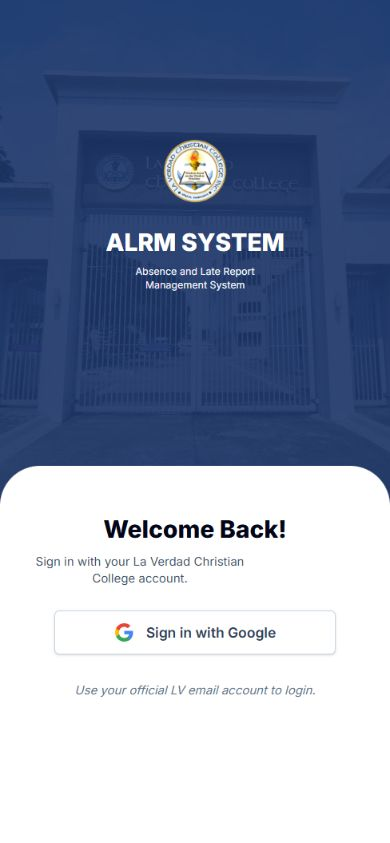
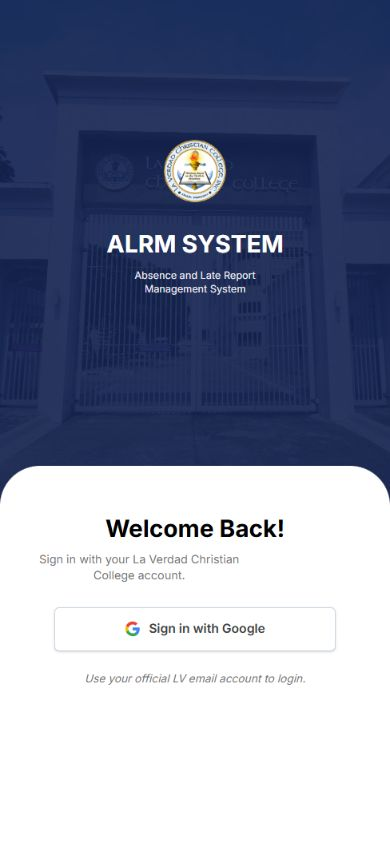
fix(auth): refine responsive login and signed-out layouts
Match the mobile blue overlay, text colors, and font weights to the reference.

Keep the desktop split-screen layout at 640px and wider, with the phone layout below 640px.

Scale typography, logos, buttons, and spacing fluidly while preserving centered alignment and accessible tap targets.

Update mobile and tablet preview screenshots.

diff --git a/frontend/src/pages/login.jsx b/frontend/src/pages/login.jsx
@@ -17,7 +17,7 @@ import lvPicture from "../assets/LV_Picture.jpg";
 
 function GoogleIcon() {
   return (
-    <svg className="size-5" viewBox="0 0 24 24" aria-hidden="true">
+    <svg className="size-[clamp(1rem,1.6vw,1.25rem)]" viewBox="0 0 24 24" aria-hidden="true">
       <path
         fill="#4285F4"
         d="M22.56 12.25c0-.78-.07-1.53-.2-2.25H12v4.26h5.92c-.26 1.37-1.04 2.53-2.21 3.31v2.77h3.57c2.08-1.92 3.28-4.74 3.28-8.09z"
@@ -43,7 +43,7 @@ function SchoolSeal() {
     <img
       src={lvLogo}
       alt="La Verdad Christian College logo"
-      className="size-36 object-contain drop-shadow-2xl"
+      className="size-[clamp(5rem,10vw,9rem)] object-contain drop-shadow-2xl"
     />
   );
 }
@@ -59,51 +59,51 @@ function Login() {
   }
 
   return (
-    <main className="flex min-h-svh flex-col bg-[#1c356a] text-slate-900 md:grid md:min-h-screen md:grid-cols-[48%_52%] md:bg-white">
+    <main className="flex min-h-svh flex-col bg-[#132351] text-slate-900 sm:grid sm:min-h-screen sm:grid-cols-[48%_52%] sm:bg-white">
       <MobileAuthBrand />
       <section
-        className="relative hidden min-h-screen place-items-center overflow-hidden bg-[#07152a] bg-cover bg-center px-10 text-white md:grid"
+        className="relative hidden min-h-screen place-items-center overflow-hidden bg-[#07152a] bg-cover bg-center px-6 text-white sm:grid lg:px-10"
         style={{
           backgroundImage: `linear-gradient(rgba(15, 23, 42, 0.86), rgba(15, 23, 42, 0.92)), url(${lvPicture})`,
         }}
       >
-        <div className="relative -mt-20 grid justify-items-center gap-8 text-center">
+        <div className="relative -mt-[clamp(2rem,6.25vw,5rem)] grid justify-items-center gap-[clamp(1rem,2.5vw,2rem)] text-center">
           <SchoolSeal />
 
-          <div className="space-y-4">
-            <h1 className="text-5xl font-black tracking-normal text-white">
+          <div className="space-y-[clamp(0.5rem,1.25vw,1rem)]">
+            <h1 className="text-[clamp(1.5rem,3.75vw,3rem)] font-black tracking-normal text-white">
               ALRM SYSTEM
             </h1>
-            <p className="mx-auto max-w-[260px] text-xl leading-snug text-slate-100">
+            <p className="mx-auto max-w-[260px] text-[clamp(0.75rem,1.5625vw,1.25rem)] leading-snug text-slate-100">
               Absence and Late Report Management System
             </p>
           </div>
         </div>
       </section>
 
-      <section className="relative -mt-10 flex min-h-[calc(40svh+2.5rem)] flex-1 flex-col items-center rounded-t-[40px] bg-white px-7 pb-10 pt-12 md:m-0 md:grid md:min-h-screen md:place-items-center md:rounded-none md:px-6 md:py-12">
-        <Card className="w-full max-w-[500px] gap-2 border-0 bg-transparent py-0 shadow-none ring-0 md:gap-4">
+      <section className="relative -mt-10 flex min-h-[calc(40svh+2.5rem)] flex-1 flex-col items-center rounded-t-[40px] bg-white px-[clamp(1.25rem,7vw,2rem)] pb-10 pt-[clamp(2rem,5.7svh,3rem)] sm:m-0 sm:grid sm:min-h-screen sm:place-items-center sm:rounded-none sm:px-[clamp(1rem,3vw,2rem)] sm:py-12">
+        <Card className="w-full max-w-[500px] gap-[clamp(0.5rem,1.25vw,1rem)] border-0 bg-transparent py-0 shadow-none ring-0">
           <CardHeader className="items-center gap-2 px-0 text-center">
-            <CardTitle className="text-2xl font-extrabold tracking-normal text-slate-950 md:text-[48px] md:font-black md:text-slate-800">
+            <CardTitle className="text-[clamp(1.375rem,calc(1rem+2vw),3rem)] font-bold leading-tight tracking-normal text-black sm:font-black sm:text-slate-800">
               Welcome Back!
             </CardTitle>
-            <CardDescription className="max-w-56 text-xs leading-snug text-slate-600 md:max-w-none md:text-[18px]">
+            <CardDescription className="max-w-56 text-[clamp(0.6875rem,calc(0.5rem+0.9vw),1.125rem)] font-normal leading-snug text-[#737373] sm:max-w-none sm:text-slate-600">
               Sign in with your La Verdad Christian College account.
             </CardDescription>
           </CardHeader>
 
-          <CardFooter className="flex-col gap-7 border-0 bg-transparent px-0 pt-4 md:gap-8 md:pt-10">
+          <CardFooter className="flex-col gap-[clamp(1.25rem,3vw,2rem)] border-0 bg-transparent px-0 pt-[clamp(1rem,3.2vw,2.5rem)]">
             <Button
               type="button"
               variant="outline"
               onClick={handleGoogleLogin}
-              className="h-11 w-full max-w-[282px] gap-3 rounded-[5px] border-slate-300 bg-white text-sm font-semibold text-slate-700 shadow-sm hover:bg-slate-50 md:text-base md:font-bold"
+              className="h-[clamp(2.75rem,calc(2.25rem+1.25vw),3.25rem)] w-[min(100%,clamp(13rem,72vw,22rem))] gap-[clamp(0.5rem,1vw,0.75rem)] rounded-[5px] border-slate-300 bg-white text-[clamp(0.75rem,calc(0.65rem+0.55vw),1rem)] font-semibold text-[#404040] shadow-sm hover:bg-slate-50 sm:text-slate-700 sm:font-bold"
             >
               <GoogleIcon />
               Sign in with Google
             </Button>
 
-            <p className="text-center text-xs italic text-slate-500 md:font-semibold">
+            <p className="text-center text-[clamp(0.6875rem,calc(0.6rem+0.3vw),0.8125rem)] font-normal italic text-[#737373] sm:font-semibold sm:text-slate-500">
               Use your official LV email account to login.
             </p>
           </CardFooter>

diff --git a/frontend/src/pages/auth/SignedOut/SignedOutMessage.jsx b/frontend/src/pages/auth/SignedOut/SignedOutMessage.jsx
@@ -3,17 +3,17 @@ import { Link } from "react-router-dom";
 import { googleLoginUrl } from "@/api/client";
 
 export default function SignedOutMessage() {
-  return <section className="relative -mt-10 flex min-h-[calc(40svh+2.5rem)] flex-1 flex-col items-center rounded-t-[40px] bg-white px-7 pb-10 pt-12 md:m-0 md:grid md:min-h-screen md:place-items-center md:rounded-none md:px-6 md:py-12">
+  return <section className="relative -mt-10 flex min-h-[calc(40svh+2.5rem)] flex-1 flex-col items-center rounded-t-[40px] bg-white px-[clamp(1.25rem,7vw,2rem)] pb-10 pt-[clamp(2rem,5.7svh,3rem)] sm:m-0 sm:grid sm:min-h-screen sm:place-items-center sm:rounded-none sm:px-[clamp(1rem,3vw,2rem)] sm:py-12">
     <div className="grid w-full max-w-[420px] justify-items-center text-center">
-      <h1 className="text-2xl font-extrabold leading-tight text-[#253044] sm:text-3xl">You've been signed out</h1>
-      <p className="mt-2 text-xs text-slate-600 md:text-sm">Thanks for using the system</p>
-      <button type="button" onClick={() => { window.location.href = googleLoginUrl(); }} className="mt-8 inline-flex h-11 w-full max-w-[280px] items-center justify-center gap-3 rounded-[5px] bg-[#203b82] px-5 text-sm font-semibold text-white transition-colors hover:bg-[#182e67] focus-visible:outline-2 focus-visible:outline-offset-2 focus-visible:outline-[#203b82] md:hidden">
-        <ArrowRight aria-hidden="true" className="size-4" />Sign in with Google
+      <h1 className="text-[clamp(1.25rem,calc(1rem+1.4vw),2rem)] font-bold leading-tight text-black sm:font-extrabold sm:text-[#253044]">You've been signed out</h1>
+      <p className="mt-2 text-[clamp(0.6875rem,calc(0.5rem+0.9vw),1.125rem)] font-normal text-[#737373] sm:text-slate-600">Thanks for using the system</p>
+      <button type="button" onClick={() => { window.location.href = googleLoginUrl(); }} className="mt-[clamp(1.25rem,2.5vw,2rem)] inline-flex h-[clamp(2.75rem,calc(2.25rem+1.25vw),3.25rem)] w-[min(100%,clamp(13rem,72vw,22rem))] items-center justify-center gap-[clamp(0.5rem,1vw,0.75rem)] rounded-[5px] bg-[#172f6b] px-5 text-[clamp(0.75rem,calc(0.65rem+0.55vw),1rem)] font-semibold text-white transition-colors hover:bg-[#132859] focus-visible:outline-2 focus-visible:outline-offset-2 focus-visible:outline-[#172f6b] sm:hidden">
+        <ArrowRight aria-hidden="true" className="size-[clamp(1rem,1.6vw,1.25rem)]" />Sign in with Google
       </button>
-      <Link to="/login" replace className="mt-7 hidden h-11 w-full max-w-[280px] items-center justify-center gap-3 rounded-[5px] bg-[#203b82] px-5 text-sm font-semibold text-white transition-colors hover:bg-[#182e67] focus-visible:outline-2 focus-visible:outline-offset-2 focus-visible:outline-[#203b82] md:inline-flex">
-        <ArrowRight aria-hidden="true" className="size-4" />Sign in again
+      <Link to="/login" replace className="mt-[clamp(1.25rem,2.5vw,2rem)] hidden h-[clamp(2.75rem,calc(2.25rem+1.25vw),3.25rem)] w-[min(100%,clamp(13rem,72vw,22rem))] items-center justify-center gap-[clamp(0.5rem,1vw,0.75rem)] rounded-[5px] bg-[#203b82] px-5 text-[clamp(0.75rem,calc(0.65rem+0.55vw),1rem)] font-semibold text-white transition-colors hover:bg-[#182e67] focus-visible:outline-2 focus-visible:outline-offset-2 focus-visible:outline-[#203b82] sm:inline-flex">
+        <ArrowRight aria-hidden="true" className="size-[clamp(1rem,1.6vw,1.25rem)]" />Sign in again
       </Link>
-      <p className="mt-7 text-xs italic text-slate-500 md:mt-5 md:not-italic">Use your official LV email account to login.</p>
+      <p className="mt-[clamp(1.25rem,2.5vw,2rem)] text-[clamp(0.6875rem,calc(0.6rem+0.3vw),0.8125rem)] font-normal italic text-[#737373] sm:not-italic sm:text-slate-500">Use your official LV email account to login.</p>
     </div>
   </section>;
 }

diff --git a/frontend/src/pages/auth/SignedOut/SchoolIdentityPanel.jsx b/frontend/src/pages/auth/SignedOut/SchoolIdentityPanel.jsx
@@ -2,14 +2,14 @@ import schoolLogo from "@/assets/LV_Logo.png";
 import schoolPicture from "@/assets/LV_Picture.jpg";
 
 export default function SchoolIdentityPanel() {
-  return <section aria-label="ALRM System" className="relative hidden min-h-screen place-items-center overflow-hidden bg-[#111c30] text-white md:grid">
+  return <section aria-label="ALRM System" className="relative hidden min-h-screen place-items-center overflow-hidden bg-[#111c30] text-white sm:grid">
     <img src={schoolPicture} alt="" aria-hidden="true" className="absolute inset-0 size-full object-cover" />
     <div aria-hidden="true" className="absolute inset-0 bg-[#111c30]/90" />
-    <div className="relative grid justify-items-center gap-6 px-8 py-12 text-center md:-mt-20">
-      <img src={schoolLogo} alt="La Verdad Christian College logo" className="size-28 object-contain md:size-36" />
-      <div className="grid justify-items-center gap-3">
-        <p className="text-3xl font-black text-white">ALRM SYSTEM</p>
-        <p className="max-w-[240px] text-sm font-medium leading-snug text-slate-100">Absence and Late Report Management System</p>
+    <div className="relative -mt-[clamp(2rem,6.25vw,5rem)] grid justify-items-center gap-[clamp(1rem,2.5vw,2rem)] px-6 py-12 text-center lg:px-8">
+      <img src={schoolLogo} alt="La Verdad Christian College logo" className="size-[clamp(5rem,10vw,9rem)] object-contain" />
+      <div className="grid justify-items-center gap-[clamp(0.5rem,1.25vw,1rem)]">
+        <p className="text-[clamp(1.5rem,3.75vw,3rem)] font-black text-white">ALRM SYSTEM</p>
+        <p className="max-w-[260px] text-[clamp(0.75rem,1.5625vw,1.25rem)] font-normal leading-snug text-slate-100">Absence and Late Report Management System</p>
       </div>
     </div>
   </section>;

diff --git a/frontend/src/components/auth/MobileAuthBrand.jsx b/frontend/src/components/auth/MobileAuthBrand.jsx
@@ -2,14 +2,14 @@ import schoolLogo from "@/assets/LV_Logo.png";
 import schoolPicture from "@/assets/LV_Picture.jpg";
 
 export default function MobileAuthBrand() {
-  return <section aria-label="ALRM System" className="relative h-[60svh] min-h-80 shrink-0 overflow-hidden bg-[#1c356a] text-white md:hidden">
+  return <section aria-label="ALRM System" className="relative h-[60svh] min-h-80 shrink-0 overflow-hidden bg-[#132351] text-white sm:hidden">
     <img src={schoolPicture} alt="" aria-hidden="true" className="absolute inset-0 size-full object-cover object-center" />
-    <div aria-hidden="true" className="absolute inset-0 bg-[#1c356a]/90" />
-    <div className="relative grid justify-items-center gap-5 px-6 pt-[16svh] text-center">
-      <img src={schoolLogo} alt="La Verdad Christian College logo" className="size-18 object-contain" />
+    <div aria-hidden="true" className="absolute inset-0 bg-[#132351]/90" />
+    <div className="relative grid justify-items-center gap-[clamp(0.875rem,5vw,1.25rem)] px-6 pt-[16svh] text-center">
+      <img src={schoolLogo} alt="La Verdad Christian College logo" className="size-[clamp(3.5rem,18.5vw,5rem)] object-contain" />
       <div className="grid justify-items-center gap-1.5">
-        <p className="text-2xl font-extrabold text-white">ALRM SYSTEM</p>
-        <p className="max-w-44 text-[10px] leading-snug text-slate-100">Absence and Late Report<br />Management System</p>
+        <p className="text-[clamp(1.25rem,6.15vw,1.75rem)] font-bold text-white">ALRM SYSTEM</p>
+        <p className="max-w-48 text-[clamp(0.625rem,2.6vw,0.75rem)] font-normal leading-snug text-white/90">Absence and Late Report<br />Management System</p>
       </div>
     </div>
   </section>;

diff --git a/frontend/src/pages/auth/SignedOut/SignedOut.jsx b/frontend/src/pages/auth/SignedOut/SignedOut.jsx
@@ -11,7 +11,7 @@ export default function SignedOut() {
   if (!user && (loading || sessionError)) return <SessionStatus />;
   if (user) return <Navigate to={getPostLoginPath(user)} replace />;
 
-  return <main className="flex min-h-svh flex-col bg-[#1c356a] text-slate-900 md:grid md:min-h-screen md:grid-cols-[48%_52%] md:bg-white">
+  return <main className="flex min-h-svh flex-col bg-[#132351] text-slate-900 sm:grid sm:min-h-screen sm:grid-cols-[48%_52%] sm:bg-white">
     <MobileAuthBrand />
     <SchoolIdentityPanel />
     <SignedOutMessage />
